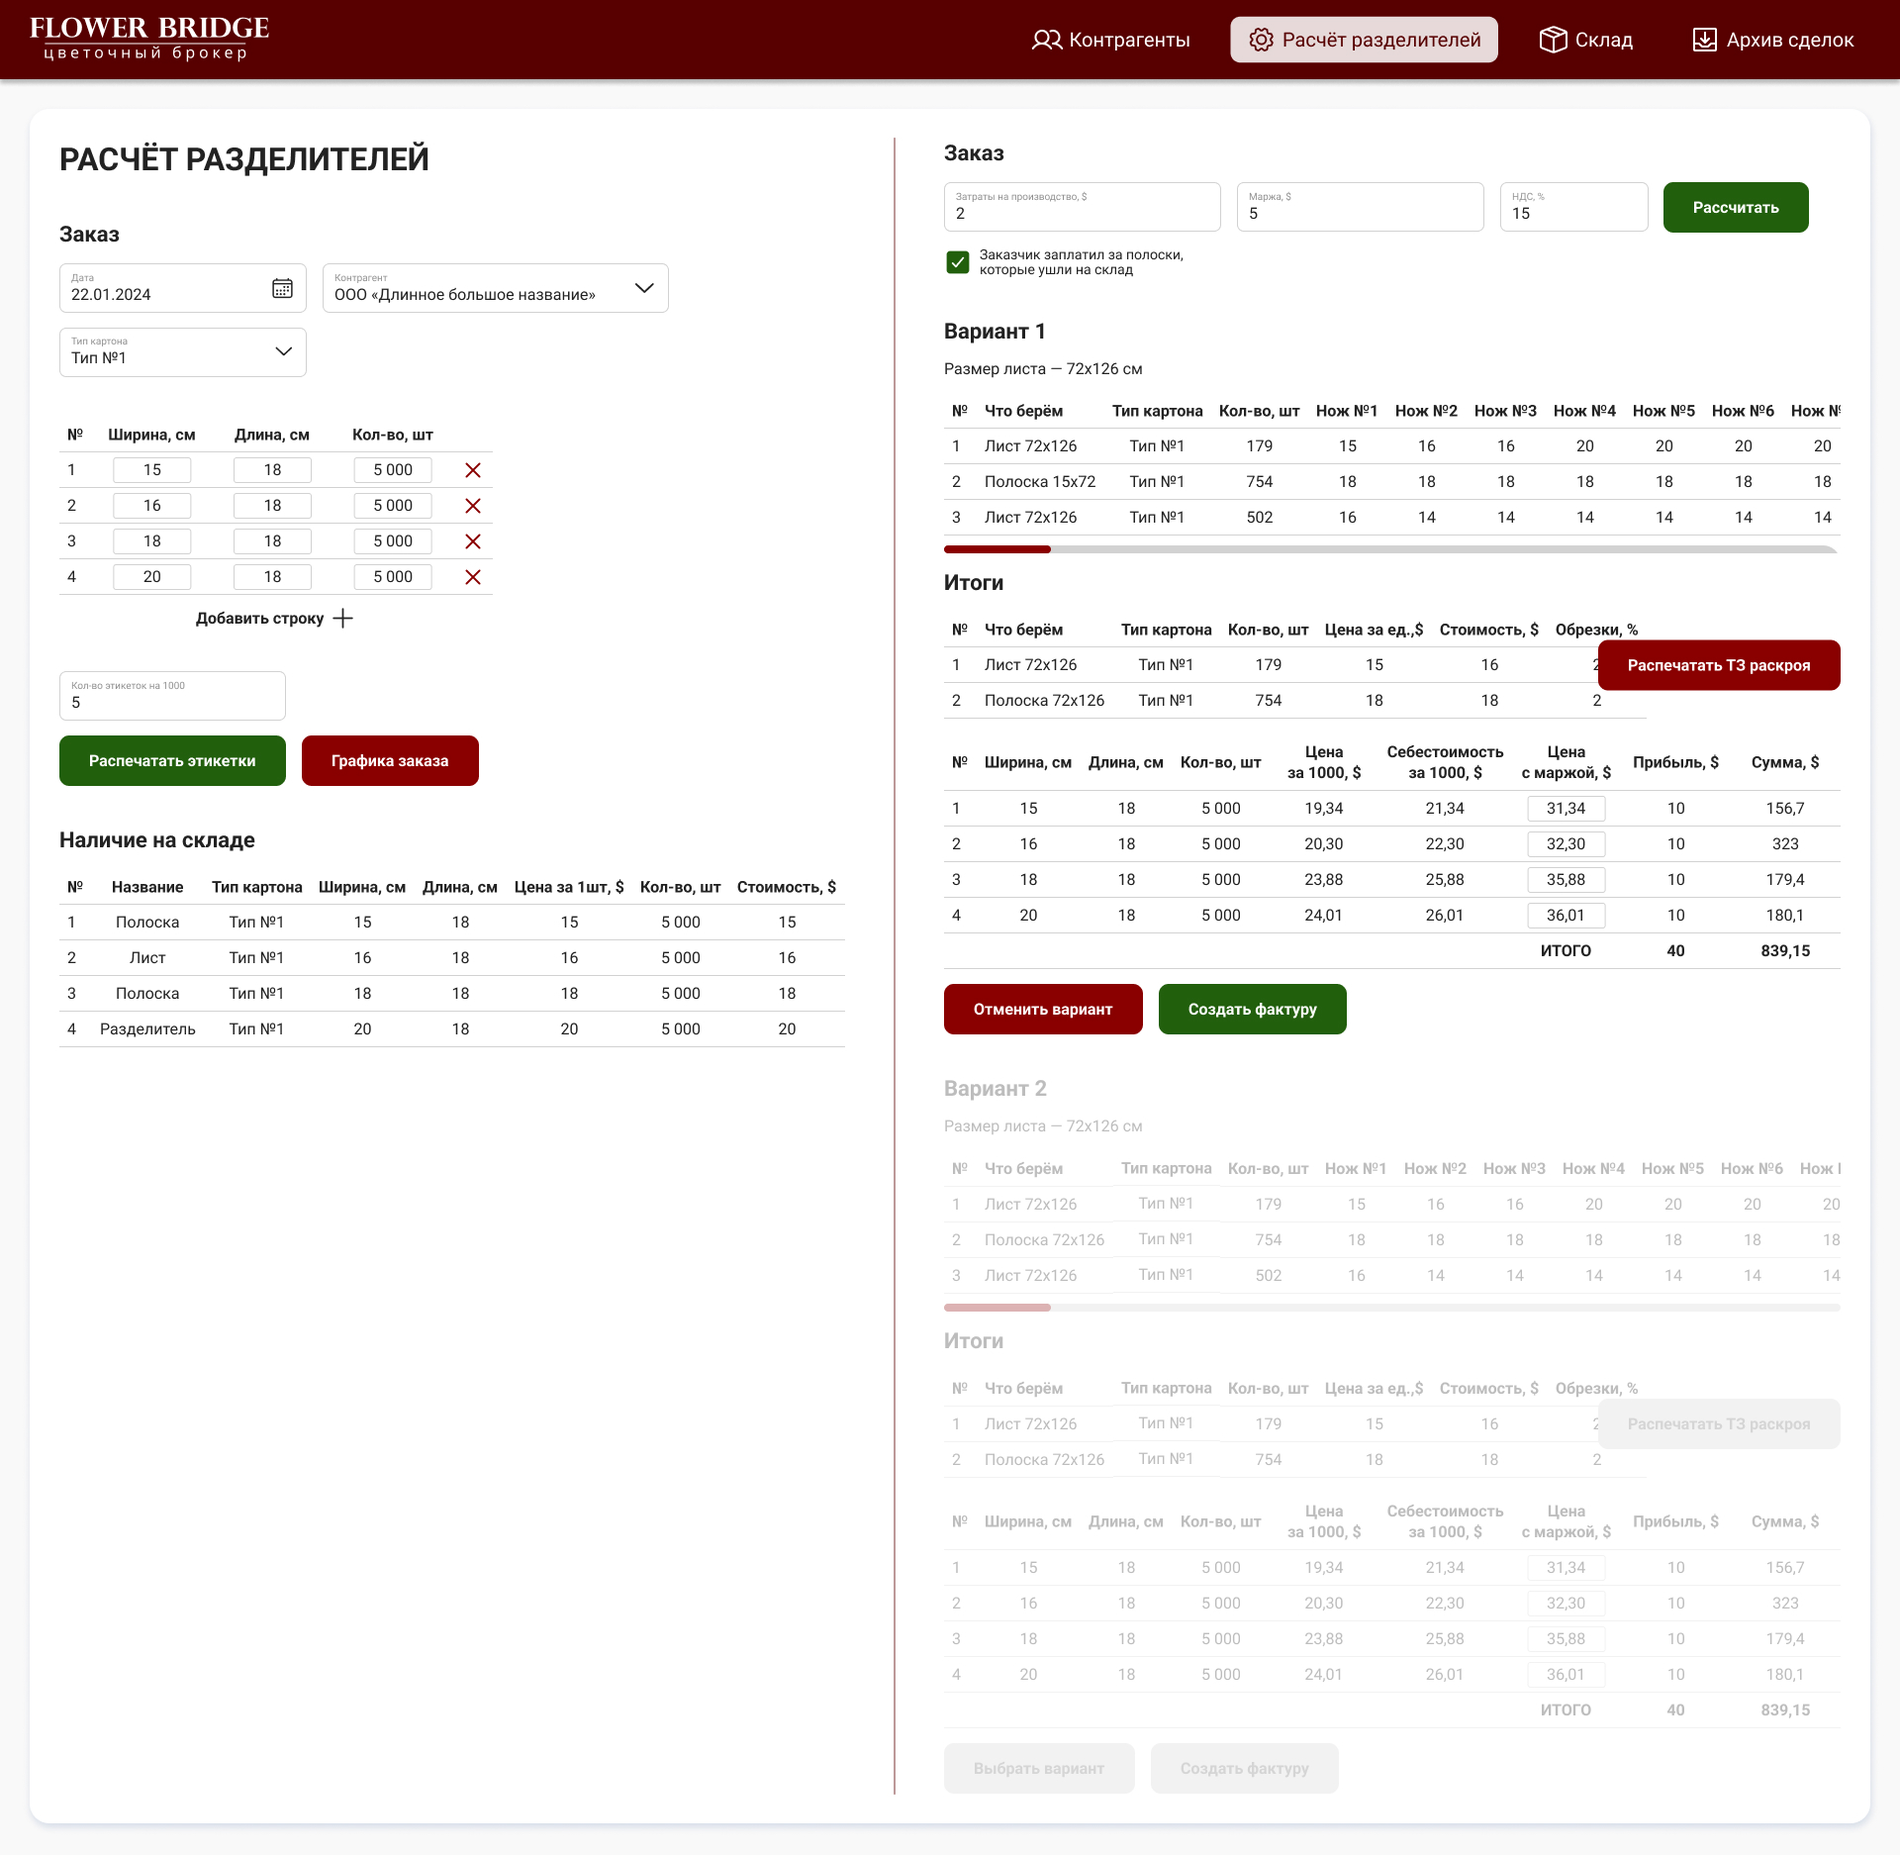
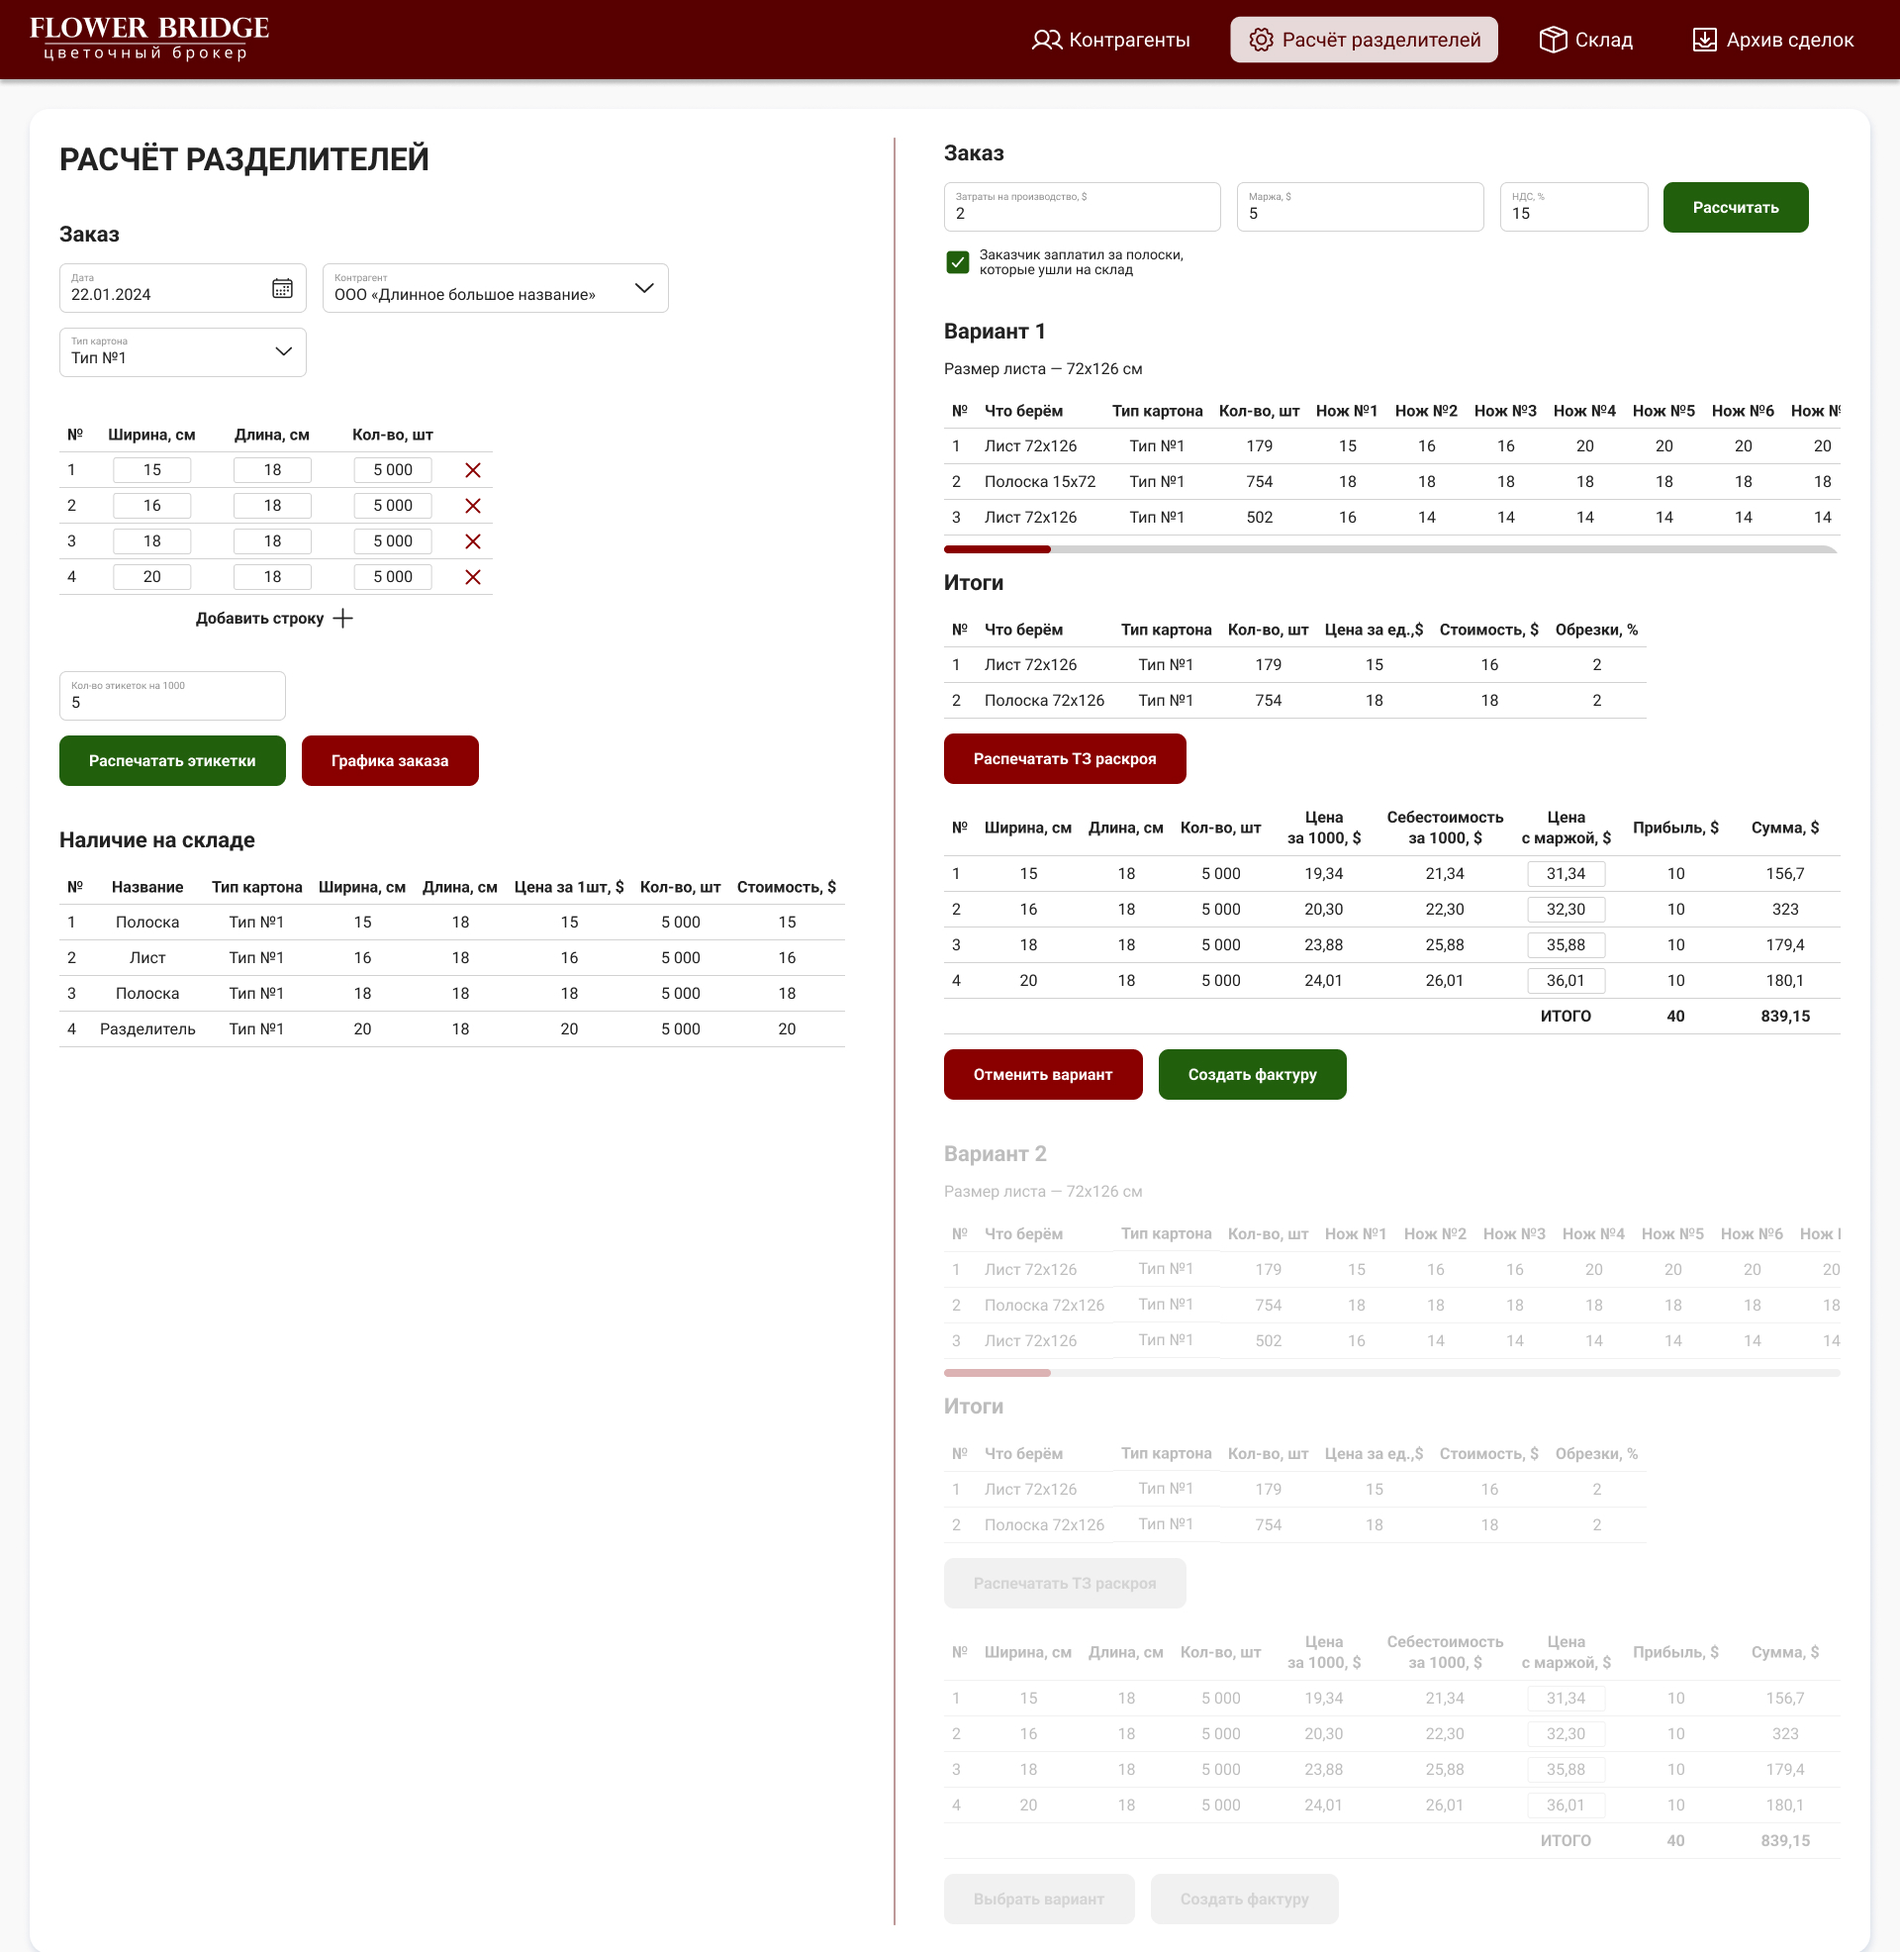
добавит верстку расчета

diff --git a/src/scss/style.scss b/src/scss/style.scss
@@ -1711,6 +1711,26 @@ img {
       justify-content: flex-start;
       gap: 20px;
     }
+
+    .result {
+      .btn {
+        margin: 0;;
+      }
+
+      .table {
+        margin: 0;
+
+        .table__column_2 {
+          
+        }
+      }
+
+      .wrap {
+        gap: 15px;
+        margin: 0;
+      }
+
+    }
   }
 
   &__field {
@@ -1812,11 +1832,9 @@ img {
     .table__column {
       padding: 8px;
     }
-
-    .table__body {
-      .table__column {
-        padding: 5px 8px;
-      }
+    
+    .table__column {
+      // padding: 5px 8px;
     }
 
     .table__column_1 {
@@ -1843,6 +1861,16 @@ img {
       text-align: center;
     }
 
+    .table__column_6 {
+      width: 9.1%;
+      text-align: center;
+    }
+
+    .table__column_7 {
+      width: 9.1%;
+      text-align: center;
+    }
+
     .table__cell-frame {
       margin: 0 auto;
       display: flex;
@@ -1857,6 +1885,7 @@ img {
 
     .table {
       width: 794px;
+      // margin-right: 50px;
 
       .table__column_1 {
         width: 4.2%;
@@ -1925,6 +1954,7 @@ img {
 
       .table__column_2 {
         min-width: 129px;
+        justify-content: flex-start;
       }
 
       .table__column_3 {
@@ -1994,5 +2024,118 @@ img {
 
       // end скролл scroll
     }
+  }
+
+  .wrap_vertical {
+    align-items: flex-start;
+  }
+
+  .calculating__table_res {
+
+    width: 710px;
+    .table__column {
+      // padding: 9px 8px;
+      // line-height: 110%;
+    }
+
+    .table__column_1 {
+      width: 4.6%;
+      justify-content: flex-start;
+
+    }
+
+    .table__column_2 {
+      width: 19.4%;
+      justify-content: flex-start;
+    }
+
+    .table__column_3 {
+      width: 15.2%;
+      text-align: center;
+    }
+
+    .table__column_4 {
+      width: 13.8%;
+      text-align: center;
+    }
+
+    .table__column_5 {
+      width: 16.3%;
+      text-align: center;
+    }
+
+    .table__column_6 {
+      width: 16.5%;
+      text-align: center;
+    }
+
+    .table__column_7 {
+      width: 14.1%;
+      text-align: center;
+    }
+
+  }
+
+  .calculating__table_bot {
+
+    // width: 100%;
+    .table {
+      width: 906px;
+
+      .table__head {
+        .table__column{
+          height: 58px;
+          padding: 0;
+        }
+      }
+    }
+
+
+    
+    .table__column_1 {
+      width: 3.6%;
+      justify-content: flex-start;
+    }
+
+    .table__column_2 {
+      width: 11.6%;
+      justify-content: center;
+    }
+
+    .table__column_3 {
+      width: 10.3%;
+      text-align: center;
+    }
+
+    .table__column_4 {
+      width: 10.8%;
+      text-align: center;
+    }
+
+    .table__column_5 {
+      width: 12.2%;
+      text-align: center;
+    }
+
+    .table__column_6 {
+      width: 14.8%;
+      text-align: center;
+    }
+
+    .table__column_7 {
+      width: 12.2%;
+      text-align: center;
+    }
+
+    .table__column_8 {
+      width: 12.2%;
+      text-align: center;
+    }
+
+    .table__column_9 {
+      width: 12.2%;
+      text-align: center;
+    }
+
   }
 }

diff --git a/src/calculating.html b/src/calculating.html
@@ -759,8 +759,8 @@
 
               <h2 class="section__subtitle result__subtitle">Итоги</h2>
 
-              <div class="wrap">
-                <div class="calculating__table">
+              <div class="wrap wrap_vertical">
+                <div class="calculating__table calculating__table_res">
                   <table class="section__table table">
                     <thead class="table__head">
                       <tr class="table__row">
@@ -839,7 +839,7 @@
                     </tbody>
                   </table>
                 </div>
-                <button class="btn btn_red btn-reset btn_w_245">Распечатать ТЗ раскроя</button>
+                <button class="btn btn-reset btn_w_245 btn_disabled">Распечатать ТЗ раскроя</button>
               </div>
 
 
